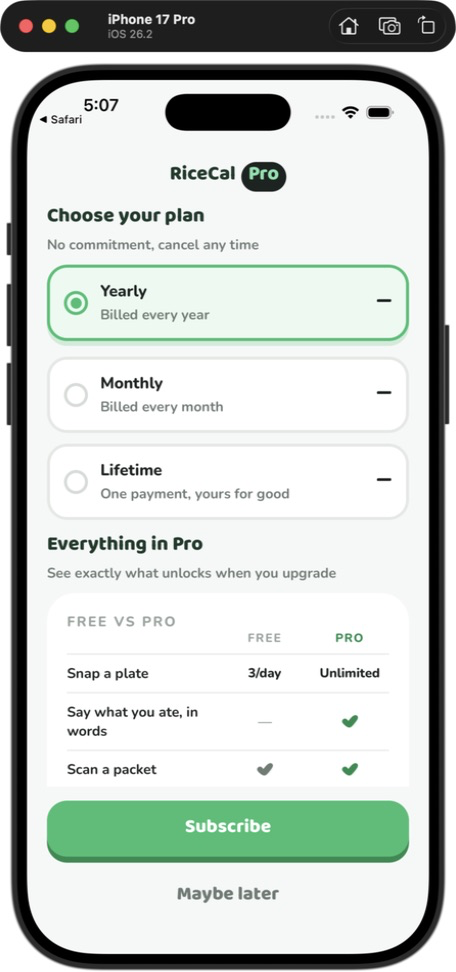
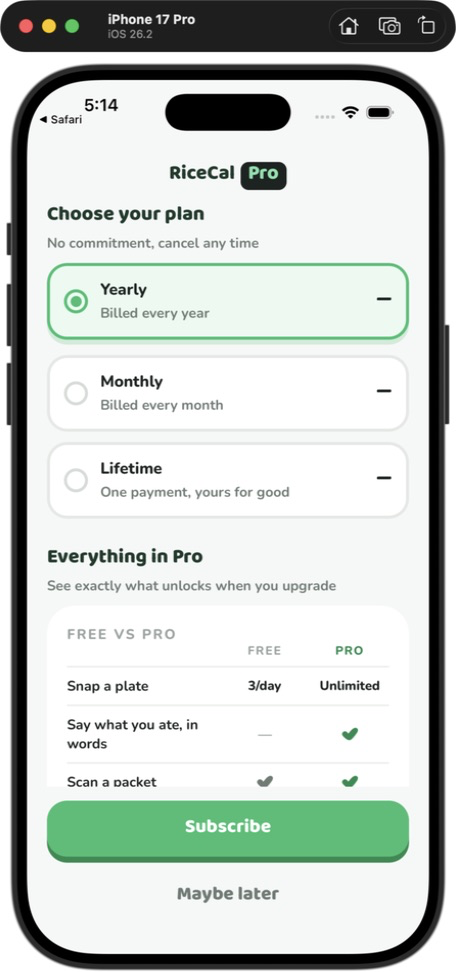
Standardize both paywall exit designs

diff --git a/apps/mobile/src/features/paywall/PaywallOffer.tsx b/apps/mobile/src/features/paywall/PaywallOffer.tsx
@@ -12,14 +12,16 @@ import {
   restorePurchases,
 } from '@/data/purchases'
 import { track } from '@/lib/analytics'
-import { AppBar, Button, Screen, useToast } from '@/ui'
+import { Button, Screen, useToast } from '@/ui'
 import { ProPitch } from './ProPitch'
-import { ProWordmark } from './ProWordmark'
 import { trackPurchaseAbandoned, trackPurchaseStarted } from './tracking'
 
-export type PaywallOfferProps =
-  | { screen: 'intro'; onLater: () => void; onBack?: never }
-  | { screen: 'hard'; onBack: () => void; onLater?: never }
+export type PaywallOfferProps = {
+  /** Kept only to attribute purchase analytics to the route that opened the offer. */
+  screen: 'intro' | 'hard'
+  /** Leaves without buying: enter the app after onboarding, or return from a gate. */
+  onLater: () => void
+}
 
 /** The shared plan selection, purchase, and restore flow for both full paywalls. */
 export function PaywallOffer(props: PaywallOfferProps) {
@@ -118,29 +120,13 @@ export function PaywallOffer(props: PaywallOfferProps) {
                 ? t('paywall:hard.start')
                 : t('paywall:hard.startSubscription')}
           </Button>
-          {props.screen === 'intro' ? (
-            <Button variant="ghost" fullWidth onPress={props.onLater} disabled={busy}>
-              {t('paywall:intro.later')}
-            </Button>
-          ) : null}
+          <Button variant="ghost" fullWidth onPress={props.onLater} disabled={busy}>
+            {t('paywall:intro.later')}
+          </Button>
         </View>
       }
     >
-      {props.screen === 'hard' ? (
-        <AppBar
-          titleContent={<ProWordmark />}
-          onBack={props.onBack}
-          backLabel={t('common:a11y.back')}
-        />
-      ) : null}
-
-      <ProPitch
-        showBrand={props.screen === 'intro'}
-        plan={plan}
-        onPlanChange={selectPlan}
-        onRestore={restore}
-        disabled={busy}
-      />
+      <ProPitch plan={plan} onPlanChange={selectPlan} onRestore={restore} disabled={busy} />
     </Screen>
   )
 }

diff --git a/apps/mobile/src/features/paywall/__tests__/paywall-offer.test.tsx b/apps/mobile/src/features/paywall/__tests__/paywall-offer.test.tsx
@@ -72,16 +72,18 @@ beforeEach(() => {
 })
 
 it('uses the same selected-plan offer on the standing paywall', async () => {
-  await renderOffer({ screen: 'hard', onBack: jest.fn() })
+  const later = jest.fn()
+  await renderOffer({ screen: 'hard', onLater: later })
 
   expect(screen.getByRole('header', { name: 'RiceCal Pro' })).toBeOnTheScreen()
   expect(screen.getAllByRole('radio')).toHaveLength(3)
   expect(screen.getByRole('button', { name: 'Start free trial' })).toBeOnTheScreen()
-  expect(screen.queryByRole('button', { name: 'Maybe later' })).toBeNull()
+  await user.press(screen.getByRole('button', { name: 'Maybe later' }))
+  expect(later).toHaveBeenCalledTimes(1)
 })
 
 it('purchases the selected plan from the one shared button', async () => {
-  await renderOffer({ screen: 'hard', onBack: jest.fn() })
+  await renderOffer({ screen: 'hard', onLater: jest.fn() })
 
   await user.press(screen.getByRole('radio', { name: 'Monthly, Billed every month, RM12.90' }))
   await user.press(screen.getByRole('button', { name: 'Subscribe' }))
@@ -94,7 +96,7 @@ it('purchases the selected plan from the one shared button', async () => {
   })
 })
 
-it('adds only the onboarding exit to the same offer', async () => {
+it('uses the route-specific destination behind the shared later action', async () => {
   const later = jest.fn()
   await renderOffer({ screen: 'intro', onLater: later })
 
@@ -105,7 +107,7 @@ it('adds only the onboarding exit to the same offer', async () => {
 })
 
 it('restores through the same guarded store flow', async () => {
-  await renderOffer({ screen: 'hard', onBack: jest.fn() })
+  await renderOffer({ screen: 'hard', onLater: jest.fn() })
 
   await user.press(screen.getByRole('button', { name: 'Restore Purchase' }))
 

diff --git a/apps/mobile/src/features/paywall/ProPitch.tsx b/apps/mobile/src/features/paywall/ProPitch.tsx
@@ -10,8 +10,6 @@ import { ProWordmark } from './ProWordmark'
 import { PurchaseTerms } from './PurchaseTerms'
 
 export type ProPitchProps = {
-  /** The standing page carries the wordmark in its own back bar. */
-  showBrand?: boolean
   plan: Plan
   onPlanChange: (plan: Plan) => void
   onRestore: () => void
@@ -26,13 +24,7 @@ export type ProPitchProps = {
  * comparison follows as supporting detail, and the legal links stay at the end
  * of the scroll content rather than competing with the purchase button.
  */
-export function ProPitch({
-  showBrand = true,
-  plan,
-  onPlanChange,
-  onRestore,
-  disabled = false,
-}: ProPitchProps) {
+export function ProPitch({ plan, onPlanChange, onRestore, disabled = false }: ProPitchProps) {
   const { t } = useTranslation('paywall')
   const { data: prices } = usePlanPrices()
 
@@ -55,7 +47,7 @@ export function ProPitch({
 
   return (
     <>
-      {showBrand ? <ProWordmark /> : null}
+      <ProWordmark />
 
       <View className="gap-3">
         <View className="gap-1">
@@ -76,7 +68,9 @@ export function ProPitch({
 
       {/* What each tier gets, side by side. A reader whose barcode scanner
           already works needs to know which lines actually change with Pro. */}
-      <PlanTable />
+      <View className="mt-md">
+        <PlanTable />
+      </View>
 
       {/* One compact legal row on both paywalls. The trial-ended screen uses
           the same component without restore, because it has its own account

diff --git a/apps/mobile/src/ui/AppBar.tsx b/apps/mobile/src/ui/AppBar.tsx
@@ -18,8 +18,6 @@ export type AppBarProps = {
    * is a chevron and nothing else, and a trailing `action` still keeps its edge.
    */
   title?: string
-  /** A styled title that occupies the same centred slot as `title`. */
-  titleContent?: ReactNode
   /** Back affordance. Omit on a root screen. */
   onBack?: () => void
   /** Screen-reader name for the back button. Pass translated copy. */
@@ -92,7 +90,6 @@ export type AppBarProps = {
  */
 export function AppBar({
   title,
-  titleContent,
   onBack,
   backLabel = 'Go back',
   leading = 'back',
@@ -171,8 +168,6 @@ export function AppBar({
           cursorColor={colors.pandan}
           selectionColor={colors.pandan}
         />
-      ) : titleContent ? (
-        <View className="flex-1">{titleContent}</View>
       ) : onPressTitle ? (
         <Tappable className="flex-1" onPress={onPressTitle} accessibilityRole="button">
           <Text variant="subtitle" numberOfLines={titleLines}>

diff --git a/apps/mobile/src/ui/__tests__/controls.test.tsx b/apps/mobile/src/ui/__tests__/controls.test.tsx
@@ -11,7 +11,6 @@ import { cn } from '../cn'
 import { StatTile } from '../StatTile'
 import { Stepper } from '../Stepper'
 import { Switch } from '../Switch'
-import { Text } from '../Text'
 
 /**
  * Behaviour, not appearance. Styling is verified on a device through the gallery
@@ -385,11 +384,6 @@ describe('NavItem', () => {
 })
 
 describe('AppBar', () => {
-  it('keeps styled title content in the title slot', async () => {
-    await render(<AppBar titleContent={<Text>RiceCal Pro</Text>} />)
-    expect(screen.getByText('RiceCal Pro')).toBeOnTheScreen()
-  })
-
   it("offers the title as a button when it is the user's to rename", async () => {
     const onPressTitle = jest.fn()
     await render(<AppBar title="Nasi lemak" onPressTitle={onPressTitle} />)

diff --git a/apps/mobile/app/paywall/index.tsx b/apps/mobile/app/paywall/index.tsx
@@ -4,8 +4,8 @@ import { useBack } from '@/lib/navigation'
 /**
  * The standing paywall.
  *
- * It shares the full offer and purchase flow with onboarding, but it is a page
- * reached from the app and therefore keeps the back affordance.
+ * It shares the full offer and purchase flow with onboarding. Only the result
+ * of "Maybe later" differs: this route returns to where the user came from.
  */
 export default function Paywall() {
   const goBack = useBack('/today')
@@ -15,5 +15,5 @@ export default function Paywall() {
   // same page unprompted on Wednesday having already read it.
   useMarkPaywallSeen()
 
-  return <PaywallOffer screen="hard" onBack={goBack} />
+  return <PaywallOffer screen="hard" onLater={goBack} />
 }

diff --git a/apps/mobile/src/features/paywall/ProWordmark.tsx b/apps/mobile/src/features/paywall/ProWordmark.tsx
@@ -16,7 +16,7 @@ export function ProWordmark({ className }: ProWordmarkProps) {
       className={cn('flex-row items-center justify-center gap-1.5', className)}
     >
       <Text variant="subtitle">RiceCal</Text>
-      <View className="rounded-full bg-inverse px-2 py-0.5">
+      <View className="min-h-[28px] min-w-[46px] items-center justify-center rounded-[8px] bg-inverse px-2 py-[1px]">
         {/* The two words use the same face and size. Only the tier changes
             surface, so the mark still reads as one name rather than a title
             followed by a small status chip. */}

diff --git a/apps/mobile/app/paywall/intro.tsx b/apps/mobile/app/paywall/intro.tsx
@@ -5,8 +5,8 @@ import { useEnterApp } from '@/lib/navigation'
  * The paywall at the end of onboarding.
  *
  * It uses the same offer and purchase flow as the standing paywall. The only
- * difference is how somebody leaves without buying: onboarding has no previous
- * app screen, so it offers "Maybe later" instead of a back button.
+ * difference is where "Maybe later" goes: onboarding enters the app instead of
+ * returning to a previously opened screen.
  */
 export default function IntroPaywall() {
   const enterApp = useEnterApp()

diff --git a/README.md b/README.md
@@ -2941,7 +2941,9 @@ not. Both full paywalls use the same select-then-purchase offer: the three plans
 come first, one is selected, and one footer button buys that plan. The comparison
 follows as supporting detail under its own title. The subscription assurance sits
 under the plan heading in muted text. A compact RiceCal Pro wordmark, with Pro in
-an inverse badge, replaces the logo-and-tagline hero on both.
+an inverse rounded-rectangle badge, replaces the logo-and-tagline hero on both.
+Both finish with the same purchase button and Maybe later action; the route only
+decides whether Maybe later enters the app or returns to the previous screen.
 
 Trial copy follows the current store account's eligibility: iOS uses RevenueCat's
 introductory-offer eligibility result, and Android uses the free phase on the
